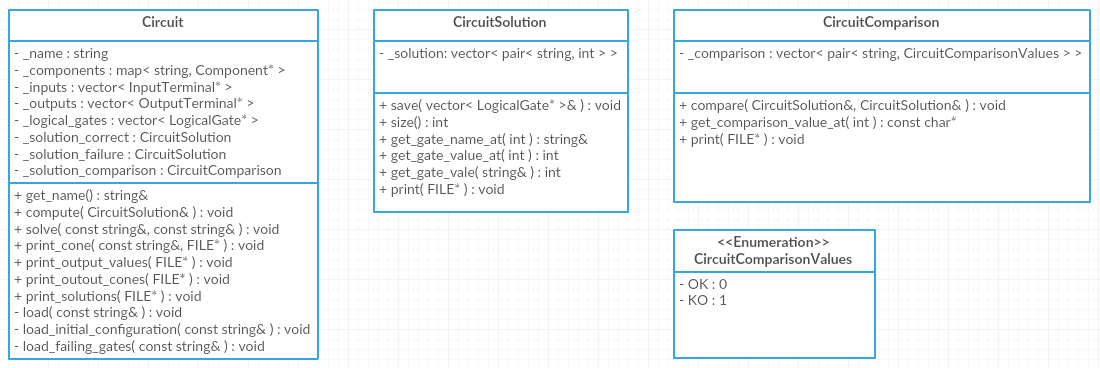
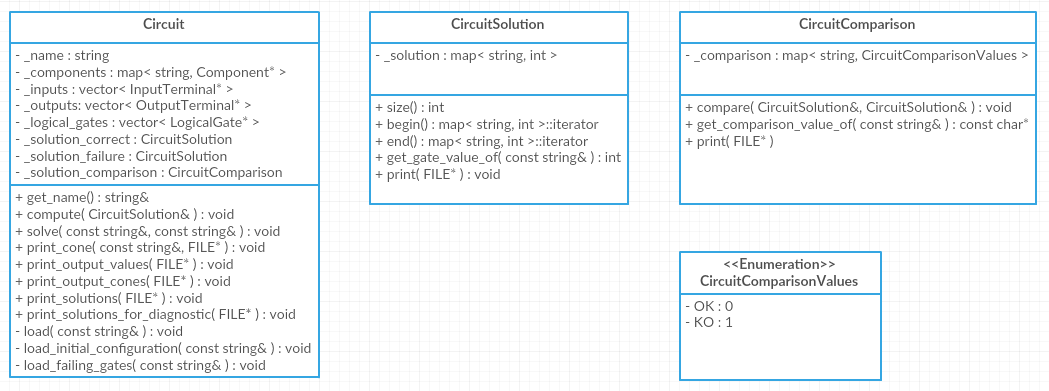
Doc and cleaning
Simulation doc might be done: written everything about it and updated images
correlated to it.
Cleaned a couple of files from useless comments and deleted the CircuitSet
class, unused for how the things evolved.
(◕ฺ ▿ฺ ◕ฺ)??

diff --git a/simulation.cpp b/simulation.cpp
@@ -7,7 +7,7 @@
  *
  */
 
-#include "./CircuitSet.h"
+#include "Circuit.h"
 #include "./constants.h"
 
 #include <stdio.h>
@@ -17,7 +17,6 @@
 int main( int argc, char ** argv )
 {
 	// File names
-	//	std::vector< std::string > input_circuits;
 	std::string input_circuit, input_configuration, input_failure;
 
 	// Some input from the user
@@ -30,7 +29,6 @@ int main( int argc, char ** argv )
 		 *  - argv[ 2 ]: input configuration
 		 *  - argv[ 3 ]: input failure gates
 		 */
-		//	input_circuits.push_back( argv[ 1 ] );
 		input_circuit = argv[ 1 ];
 		input_configuration = argv[ 2 ];
 		input_failure = argv[ 3 ];
@@ -39,12 +37,10 @@ int main( int argc, char ** argv )
 	{
 		// If the user doesn't specifies any input file, I'll read all the
 		// instances and solve them
-		//	input_circuits.push_back( StringConstants::PATH_CIRCUITS + "C17.txt" );
-		//	input_circuits.push_back( StringConstants::PATH_CIRCUITS + "C432.txt" );
 		input_circuit = StringConstants::PATH_CIRCUITS + "C17.txt";
+		//	input_circuit = StringConstants::PATH_CIRCUITS + "C432.txt";
 		input_configuration = StringConstants::FILE_INPUT_CONFIGURATION;
 		input_failure = StringConstants::FILE_FAILING_GATES;
-		//	input_circuit = StringConstants::PATH_CIRCUITS + "C432.txt";
 	}
 
 	// Creating the circuit and then passing to it the initial configuration and
@@ -84,11 +80,6 @@ int main( int argc, char ** argv )
 	FILE* solution_file = fopen( solution_filename.c_str(), "w" );
 	ckt.print_solutions_for_diagnostic( solution_file );
 	fclose( solution_file );
-
-	// For every input file received I create one circuit instance
-	//	CircuitSet ckts( input_circuits );
-	//	ckts.solve();
-	//	fprintf( stdout, "Yeah: solved %d circuits!\n", ckts.size() );
 
 	fprintf( stdout, "Yeah! Solved circuit '%s'! Results on '%s'! (•̀ᴗ•́)൬༉\n",
 				ckt.get_name().c_str(),

diff --git a/Circuit.h b/Circuit.h
@@ -41,10 +41,7 @@ class Circuit
 
 		const std::string& get_name(){ return _name; }
 
-		//	std::vector< int >& solve();
 		void compute( CircuitSolution& );
-		// TODO: Remove and remove the whole CircuitSet class
-		void solve();
 		void solve( const std::string&, const std::string& );
 
 		void print_cone( const std::string&, FILE* = stdout );

diff --git a/Circuit.cpp b/Circuit.cpp
@@ -40,9 +40,6 @@ Circuit::~Circuit()
 #endif
 }
 
-void Circuit::solve()
-{	}
-
 void Circuit::solve( const std::string& initial_conf,
 					 const std::string& failing_gates )
 {
